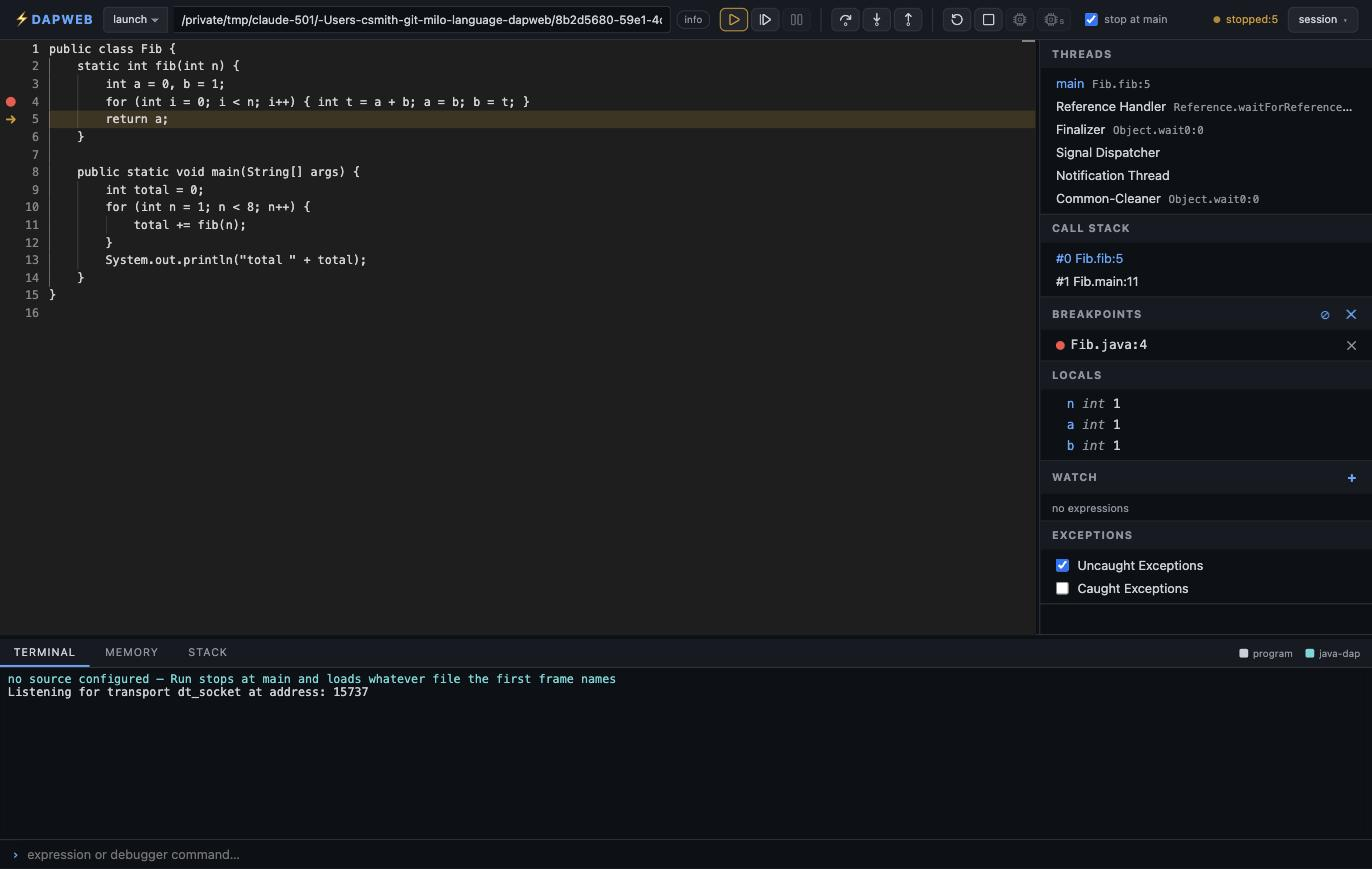
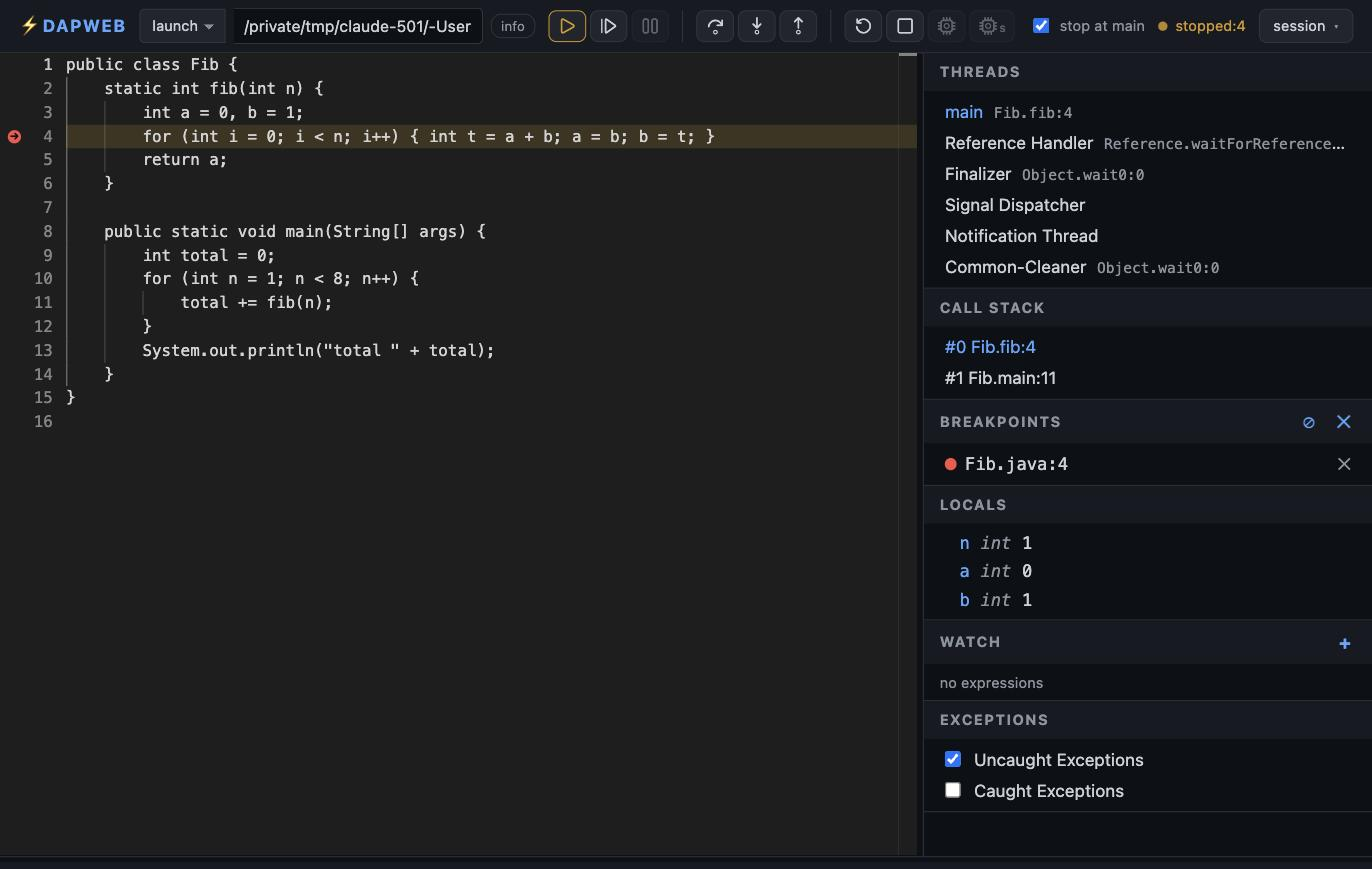
the screenshot captions were the callout pink, which is the colour this repo uses to outline one thing in a busy frame: six of them competing with the ui underneath made the pictures louder than what they show. slate chips instead, and the grid crops per tile and sizes per row, so a pane that fills 
the language shots are retaken at 1.35x, where the source and the panels are readable at readme width instead of being a third of a mostly empty editor

Claude-Session: https://claude.ai/code/session_01HmojUsUgJisAA7q2AoTonq

diff --git a/scripts/annotate-shots.py b/scripts/annotate-shots.py
@@ -268,29 +268,44 @@ def grid(spec):
     gap = int(spec.get("gap", 18))
     font = _font(int(spec.get("label_size", 20)))
     bg = tuple(spec.get("bg", (13, 17, 23)))
+    # The callout pink is for one outlined thing in a busy frame. A caption on
+    # every tile is not that, and six of them shout over the screenshots.
+    lab_bg = tuple(spec.get("label_bg", (33, 38, 45)))
+    lab_fg = tuple(spec.get("label_fg", (201, 209, 217)))
 
     tiles = []
     for t in spec["tiles"]:
         im = Image.open(t["src"]).convert("RGB")
-        if crop:
-            im = im.crop((crop[0], crop[1], crop[0] + crop[2], crop[1] + crop[3]))
+        # Per-tile crop wins: these are screenshots of panes that fill different
+        # amounts of the window, and one rectangle for all of them either cuts
+        # content off the tall ones or pads the short ones with dead space.
+        c = t.get("crop", crop)
+        if c:
+            im = im.crop((c[0], c[1], c[0] + c[2], c[1] + c[3]))
         th = int(tw * im.height / im.width)
         tiles.append((im.resize((tw, th), Image.LANCZOS), t["label"]))
 
-    th = tiles[0][0].height
     rows = (len(tiles) + cols - 1) // cols
     cap = font.size + 2 * PAD + 8
+    # Per-row heights, not one height for the grid: these panes are different
+    # shapes, and padding every tile to the tallest one puts a field of
+    # background under the short ones that reads as a layout mistake.
+    row_h = [max(im.height for im, _ in tiles[r * cols:(r + 1) * cols]) for r in range(rows)]
+    row_y, acc = [], 0
+    for h in row_h:
+        row_y.append(acc)
+        acc += h + cap + gap
     W = cols * tw + (cols - 1) * gap
-    H = rows * (th + cap) + (rows - 1) * gap
+    H = acc - gap
     out = Image.new("RGB", (W, H), bg)
     d = ImageDraw.Draw(out)
     for i, (im, label) in enumerate(tiles):
         x = (i % cols) * (tw + gap)
-        y = (i // cols) * (th + cap + gap)
+        y = row_y[i // cols]
         lw = d.textlength(label, font=font)
         d.rounded_rectangle([x, y, x + lw + 2 * PAD, y + font.size + 2 * PAD],
-                            radius=6, fill=ACCENT)
-        d.text((x + PAD, y + PAD - 1), label, font=font, fill=(20, 12, 20))
+                            radius=6, fill=lab_bg, outline=(48, 54, 61), width=1)
+        d.text((x + PAD, y + PAD - 1), label, font=font, fill=lab_fg)
         out.paste(im, (x, y + cap))
     out.save(spec["out"])
     print(f"wrote {spec['out']}  ({out.width}x{out.height}, {len(tiles)} tiles)")
